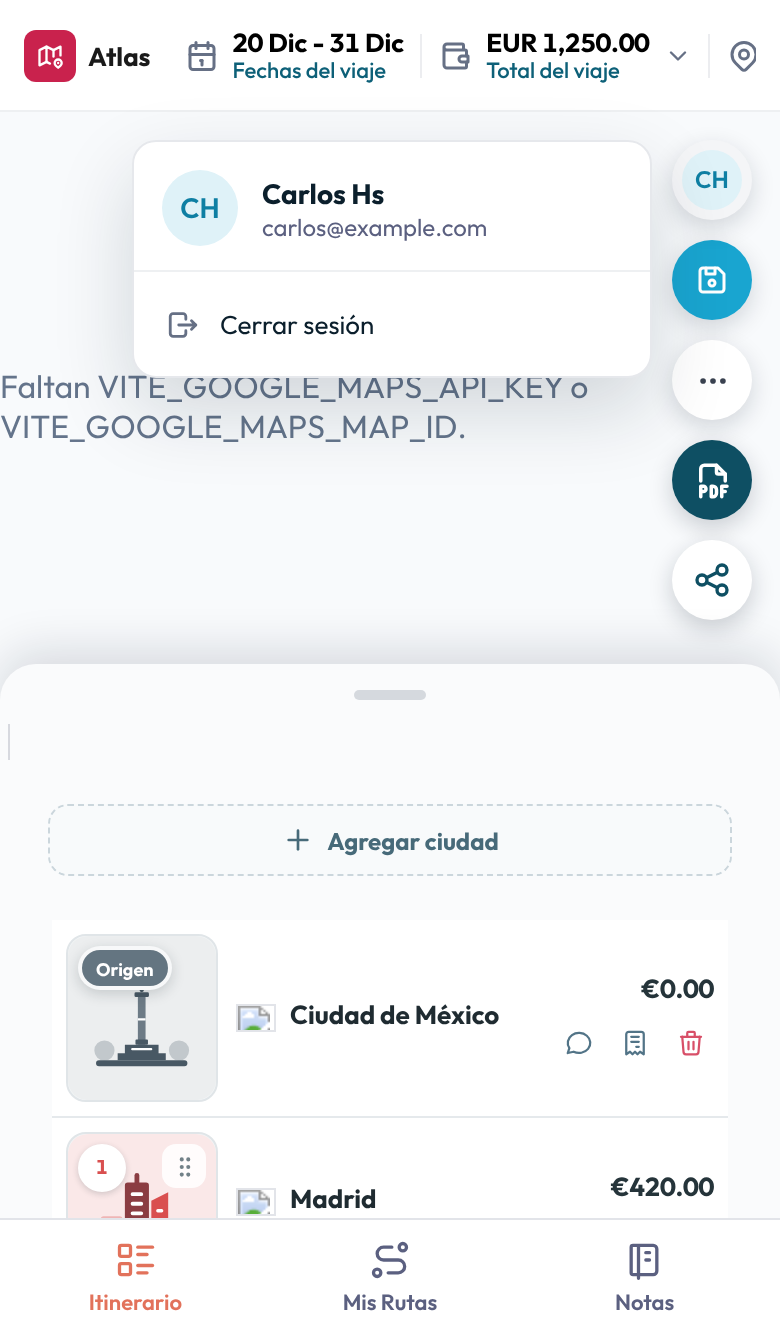
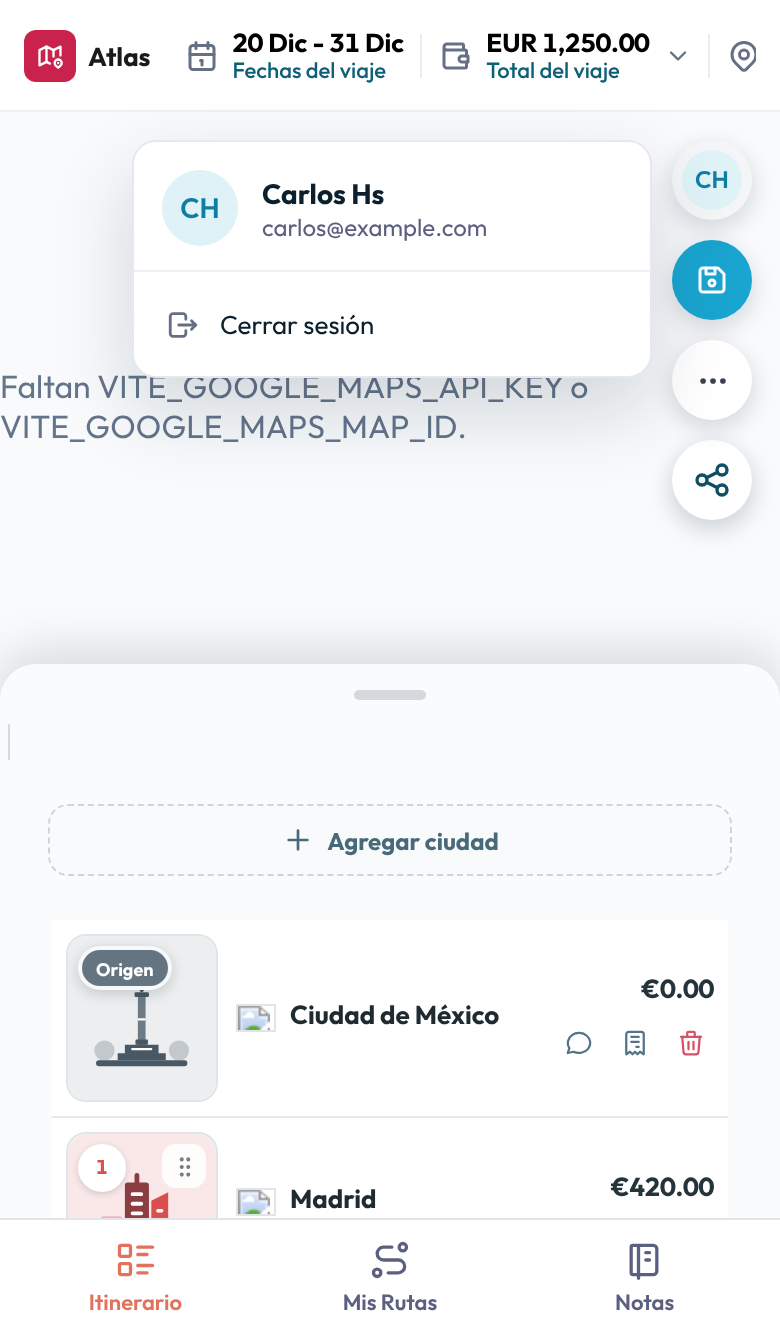
App: quitar el botón PDF en móvil; Compartir sube a su lugar
Claude-Session: https://claude.ai/code/session_01RLKJ4o2kTJh2Eq3SEGAz6f

Changed region(s): [[0.8615, 0.3087, 0.9846, 0.4014], [0.8923, 0.4322, 0.9538, 0.494]]

diff --git a/src/app/MapCapsules.css b/src/app/MapCapsules.css
@@ -223,8 +223,13 @@
     display: block;
   }
 
+  /* Sin PDF en móvil: Compartir sube a su hueco. */
   .app .itinerary-pdf-export__button {
-    display: inline-flex;
+    display: none;
+  }
+
+  .app .itinerary-share__button {
+    top: calc(var(--trip-header-height, 63px) + 164px) !important;
   }
 
   .app .editor-module__settings > .editor-module__menu-anchor.editor-module__workspace-anchor {

diff --git a/DESIGN_PRESERVATION.md b/DESIGN_PRESERVATION.md
@@ -113,7 +113,7 @@ La interfaz puede incorporar capacidades nuevas, pero el lenguaje visual de Atla
 - En escritorio y en móvil los controles flotantes son círculos de 40 px, sin texto visible (el nombre va en `aria-label` y `title`), alineados a `right: 14px` y apilados con 10 px de separación: Cuenta con la sesión iniciada (`+14px` bajo el header; solo la foto de Google o la inicial en tinte de acento, sin nombre), Guardar (`+64px`; círculo azul `--atlas-accent`), `⋯ Viajes` (`+114px`; círculo blanco, su menú sigue abriéndose a la izquierda), PDF (`+164px`) y Compartir (`+214px`). No se usan píldoras con texto. Sombra común `0 4px 12px rgba(15, 23, 42, 0.16)`. `MapCapsules.css` se carga al final y es la autoridad de esta geometría.
 - El avatar usa la foto de Google cuando existe; si no, iniciales en `#0e7fa3` sobre `#dff2f8` (tinte del acento). Nunca un color fijo ajeno a la paleta.
 - El menú de cuenta se abre a la izquierda de la cápsula (`right: calc(100% + 10px)`) con avatar, nombre, correo y `Cerrar sesión`.
-- En móvil (≤720 px) los mismos círculos (Cuenta, Guardar, ⋯, PDF, Compartir) viven sobre el mapa con la misma columna y posiciones que en escritorio; la cabecera ya no lleva cuenta ni ⋮ y solo reserva 12 px a la derecha. Los menús de Cuenta, ⋯ y el nombre del viaje se abren a la izquierda de su círculo (`right: 64px`). PDF y Compartir viven dentro del mapa y quedan bajo la hoja cuando esta sube; Cuenta, Guardar y ⋯ quedan siempre visibles.
+- En móvil (≤720 px) los círculos Cuenta, Guardar, ⋯ y Compartir viven sobre el mapa en la misma columna que en escritorio (sin PDF en móvil; Compartir ocupa su lugar, `+164px`); la cabecera ya no lleva cuenta ni ⋮ y solo reserva 12 px a la derecha. Los menús de Cuenta, ⋯ y el nombre del viaje se abren a la izquierda de su círculo (`right: 64px`). Compartir vive dentro del mapa y queda bajo la hoja cuando esta sube; Cuenta, Guardar y ⋯ quedan siempre visibles.
 
 ## Resto del mapa y aplicación (cont.)
 
